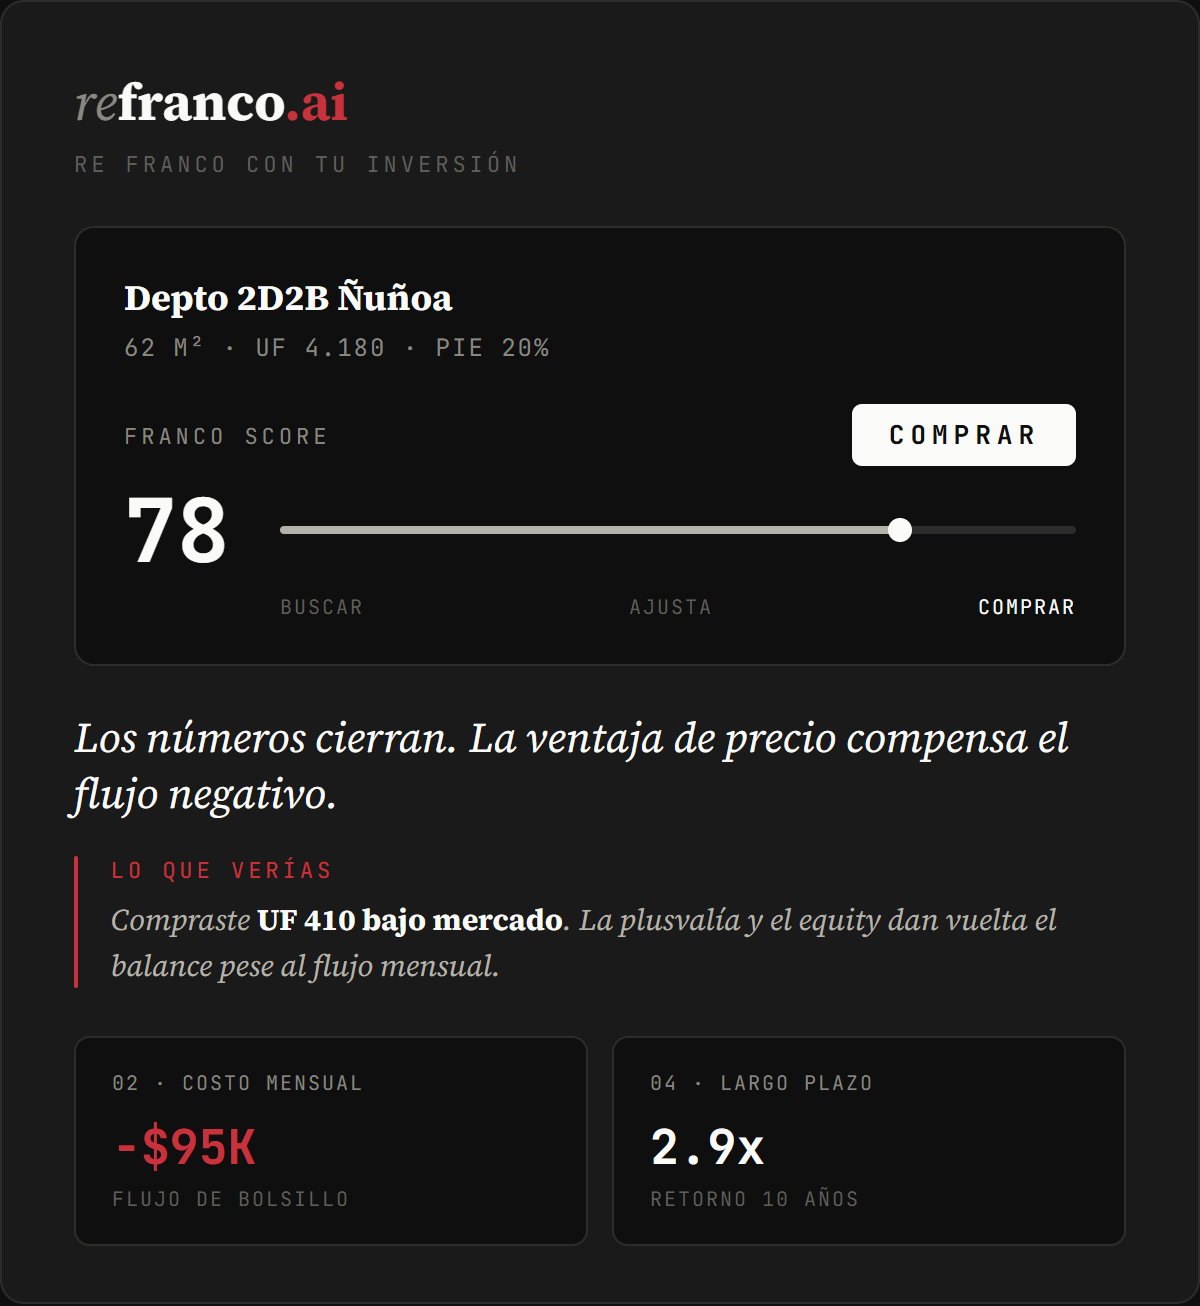
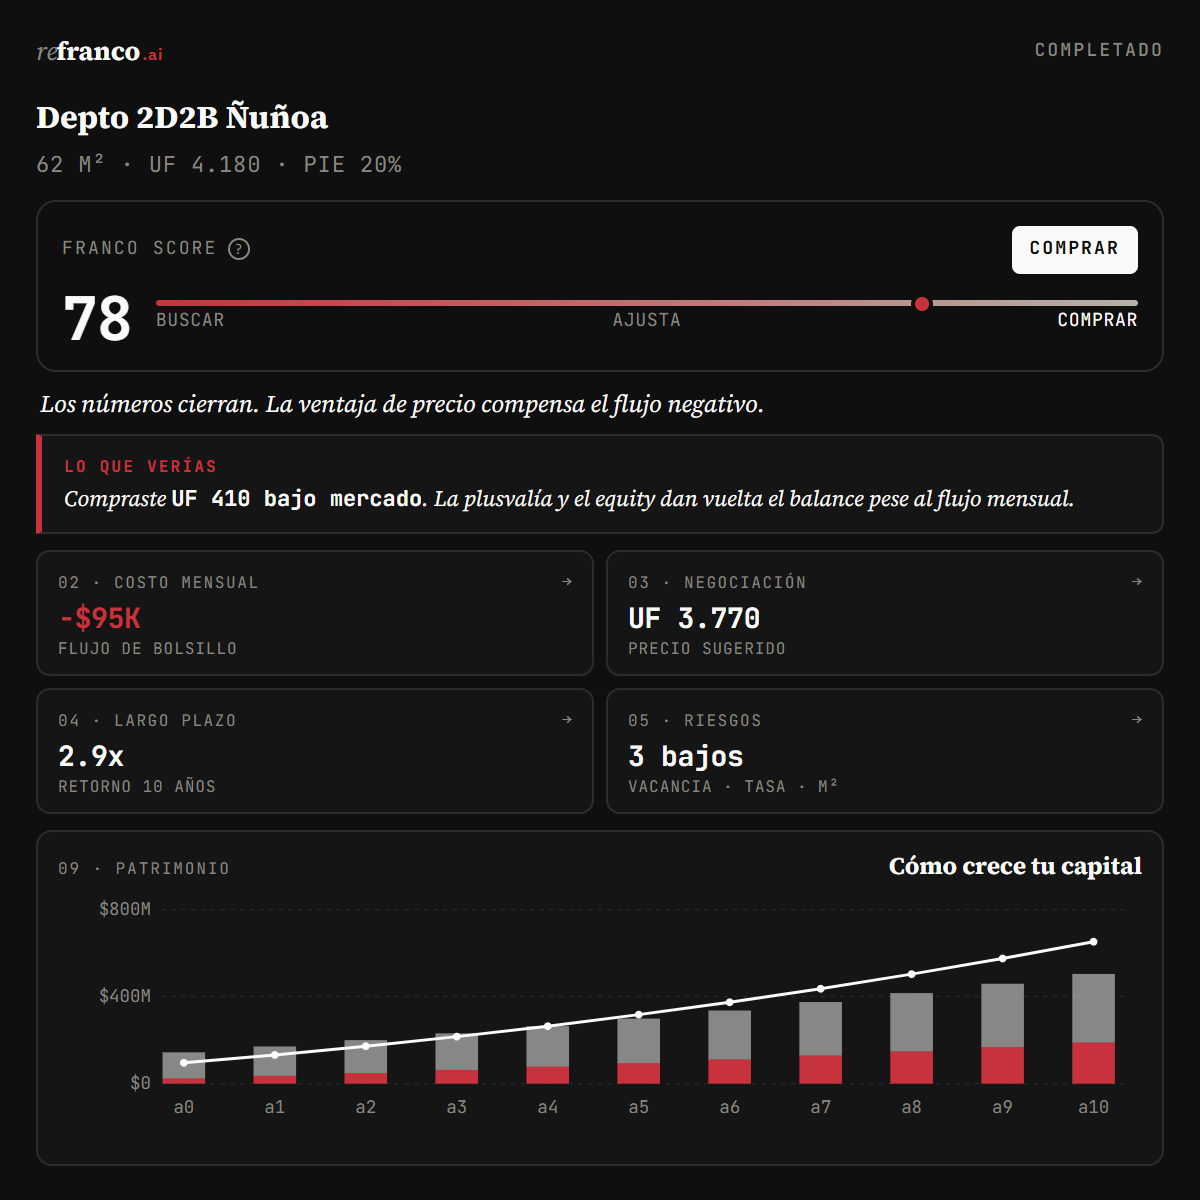
Welcome email rediseñado (hero real, fix nombre) + reversión tagline

diff --git a/src/lib/welcome.ts b/src/lib/welcome.ts
@@ -9,6 +9,40 @@ function createAdminClient() {
 }
 
 /**
+ * Resuelve el nombre a saludar desde el user de Supabase, con fallback en
+ * cadena según el proveedor de auth:
+ *   - Google OAuth → user_metadata.full_name / name
+ *   - email+password → user_metadata.nombre (lo setea el signUp en /register)
+ *   - sin nombre en metadata → se deriva del email (parte antes del @,
+ *     normalizada: separadores → espacios, capitalizada)
+ *   - si todo falla → "" (el saludo cae a "Hola," sin nombre)
+ * sendWelcomeEmail aplica el split del primer nombre al resultado.
+ */
+export function resolveDisplayName(
+  metadata: Record<string, unknown> | null | undefined,
+  email: string | null | undefined,
+): string {
+  const m = metadata ?? {};
+  const fromMeta =
+    (m.full_name as string) || (m.name as string) || (m.nombre as string) || "";
+  if (fromMeta.trim()) return fromMeta.trim();
+
+  // Derivar del email: "[email redacted]" → "Juan Perez".
+  const local = (email ?? "").split("@")[0] ?? "";
+  if (!local) return "";
+  const cleaned = local
+    .replace(/[._\-+]+/g, " ")
+    .replace(/\d+/g, " ")
+    .trim()
+    .replace(/\s+/g, " ");
+  if (!cleaned) return "";
+  return cleaned
+    .split(" ")
+    .map((w) => (w ? w[0].toUpperCase() + w.slice(1) : w))
+    .join(" ");
+}
+
+/**
  * Envía el welcome email una sola vez por usuario, de forma idempotente,
  * desacoplada del cliente y SEGURA ante concurrencia (race condition).
  *

diff --git a/src/app/dashboard/page.tsx b/src/app/dashboard/page.tsx
@@ -1,7 +1,7 @@
 import { redirect } from "next/navigation";
 import { createClient } from "@/lib/supabase/server";
 import type { Analisis } from "@/lib/types";
-import { ensureWelcomeEmail } from "@/lib/welcome";
+import { ensureWelcomeEmail, resolveDisplayName } from "@/lib/welcome";
 import { DashboardClient } from "./dashboard-client";
 import { OnboardingClient } from "./onboarding-client";
 
@@ -16,7 +16,11 @@ export default async function DashboardPage() {
     redirect("/login");
   }
 
-  const fullName = user.user_metadata?.full_name || user.user_metadata?.name || '';
+  // Fallback en cadena según proveedor (Google full_name/name · email+password
+  // nombre · derivado del email). Antes solo miraba full_name/name → los
+  // usuarios de email+password (que guardan el nombre en user_metadata.nombre)
+  // recibían el welcome con "Hola," sin nombre.
+  const fullName = resolveDisplayName(user.user_metadata, user.email);
   const firstName = fullName.split(' ')[0] || '';
 
   // Welcome email server-side e idempotente: se dispara tanto si el user ve

diff --git a/src/lib/email.ts b/src/lib/email.ts
@@ -17,7 +17,7 @@ const WORDMARK = `<div style="margin-bottom: 32px;">
     <span style="font-family: Georgia, 'Times New Roman', serif; opacity: 0.28; font-style: italic;">re</span><span style="font-family: Georgia, 'Times New Roman', serif; font-weight: 700;">franco</span><span style="color: #C8323C; font-family: Arial, sans-serif; font-size: 14px; font-weight: 600;">.ai</span>
   </div>
   <div style="margin-top: 8px; font-family: 'Courier New', Courier, monospace; font-size: 9px; text-transform: uppercase; letter-spacing: 0.2em; color: #71717A;">
-    Re franco con tu inversión
+    Real estate en su estado más franco
   </div>
 </div>`;
 
@@ -85,7 +85,7 @@ export async function sendWelcomeEmail(to: string, name: string) {
             <td style="padding: 8px 4px 20px 4px;">
               <h1 style="font-family: Georgia, 'Times New Roman', serif; font-size: 24px; font-weight: 700; color: #FAFAF8; margin: 0 0 12px 0;">${greeting}</h1>
               <p style="font-family: 'Helvetica Neue', Arial, sans-serif; color: #A1A1AA; line-height: 1.7; font-size: 15px; margin: 0;">
-                Así se ve un análisis de Franco. Ingresas un depto y recibes un veredicto claro — comprar, ajustar o buscar otra — con los números que tu cotización no muestra.
+                Así se ve un análisis de Franco. Ingresas un depto y recibes un veredicto claro — COMPRAR, AJUSTA SUPUESTOS o BUSCAR OTRA — con los números que tu cotización no muestra.
               </p>
             </td>
           </tr>
@@ -120,8 +120,8 @@ export async function sendWelcomeEmail(to: string, name: string) {
                 <p style="font-family: 'Courier New', Courier, monospace; font-size: 11px; letter-spacing: 2px; color: #888780; text-transform: uppercase; margin: 0 0 16px 0;">Cómo funciona</p>
                 <table role="presentation" width="100%" cellpadding="0" cellspacing="0" border="0">
                   ${welcomeStep('01', 'Ingresas los datos del depto: dirección, precio, superficie.')}
-                  ${welcomeStep('02', 'Franco cruza tu depto con 20.000+ propiedades reales y la plusvalía histórica de la zona.')}
-                  ${welcomeStep('03', 'Recibes un veredicto: comprar, ajustar el precio o buscar otra. Con el porqué.')}
+                  ${welcomeStep('02', 'Franco cruza tu depto con +20.000 propiedades reales + datos Airbnb en línea.')}
+                  ${welcomeStep('03', 'Recibes un veredicto —comprar, ajustar el precio o buscar otra— con su explicación.')}
                 </table>
               </div>
             </td>

diff --git a/src/components/franco-logo.tsx b/src/components/franco-logo.tsx
@@ -60,7 +60,7 @@ export default function FrancoLogo({
             lineHeight: 1,
           }}
         >
-          Re franco con tu inversión
+          Real estate en su estado más franco
         </span>
       )}
     </span>

diff --git a/src/components/landing/LandingFooter.tsx b/src/components/landing/LandingFooter.tsx
@@ -40,7 +40,7 @@ export default function LandingFooter() {
                   color: "var(--landing-text-secondary)",
                 }}
               >
-                Re franco con tu inversión
+                Real estate en su estado más franco
               </span>
             </div>
             <p className="mt-5 max-w-[360px] font-body text-[14px] leading-[1.6] text-[var(--landing-text-muted)]">

diff --git a/src/components/landing/LandingNav.tsx b/src/components/landing/LandingNav.tsx
@@ -54,7 +54,7 @@ export default function LandingNav() {
               color: "var(--landing-text-secondary)",
             }}
           >
-            Re franco con tu inversión
+            Real estate en su estado más franco
           </span>
         </Link>
 